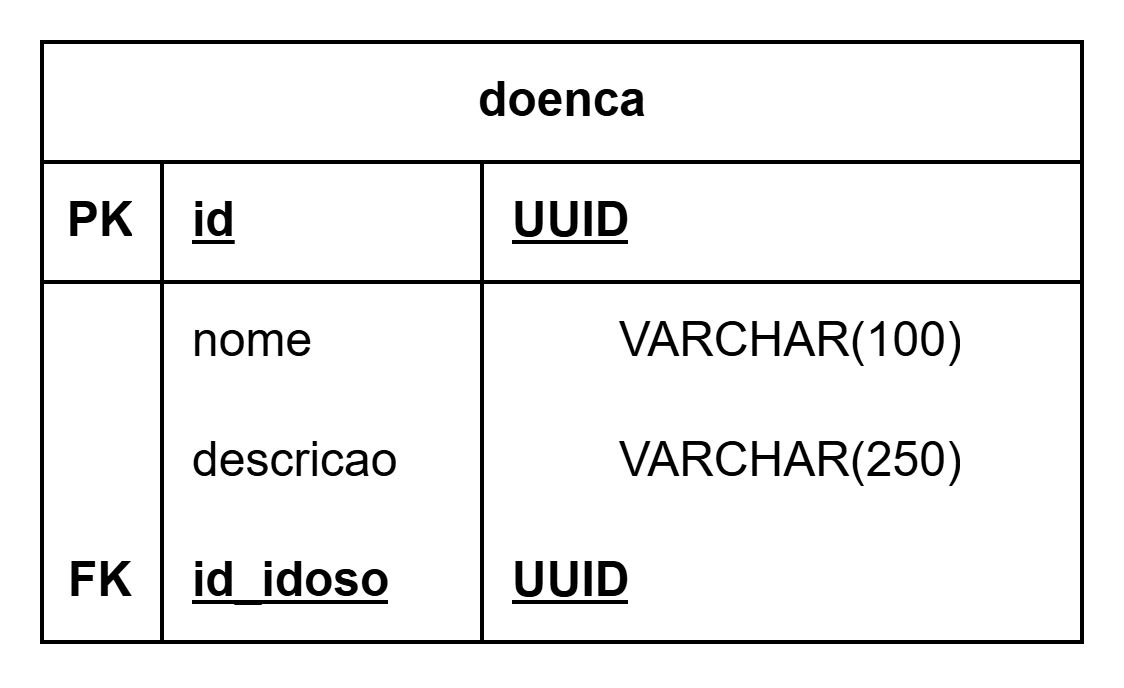
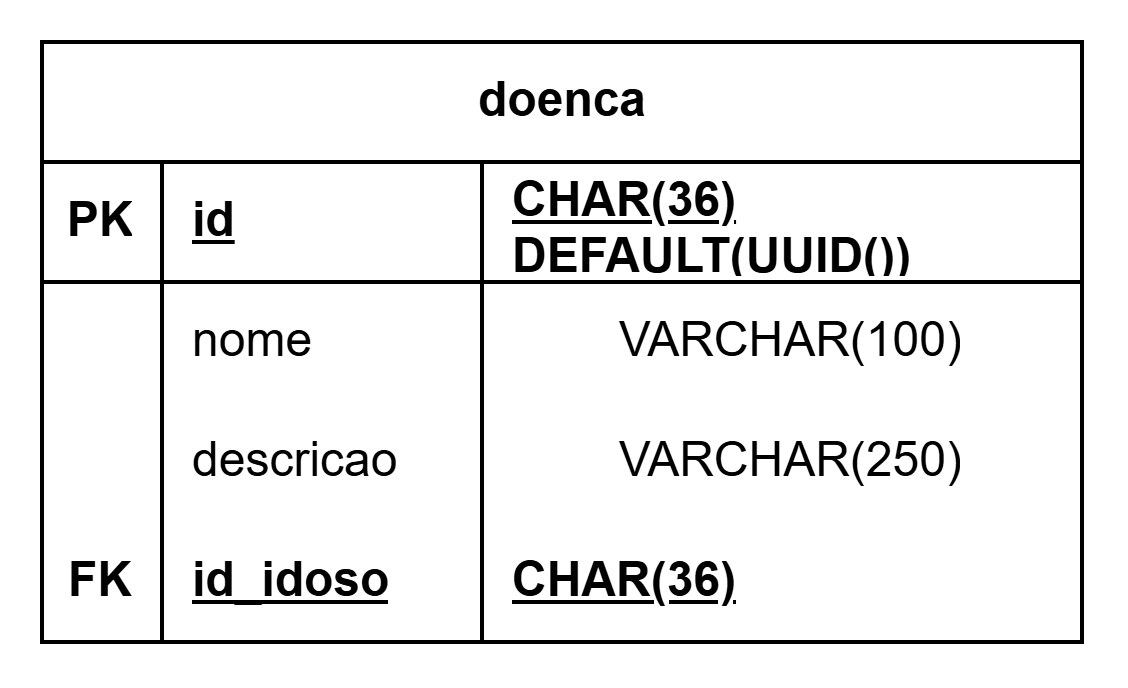
:books: docs: Arrumado as imagens com o diagrama DER e as tabelas dentro dela, pois foi atualizado o tipo da PK e da FK deixando mais completo (de UIID para CHAR(36) DEFAULT(UUID())

diff --git a/back-end/docs/database.md b/back-end/docs/database.md
@@ -30,31 +30,31 @@ A estrutura foi desenhada para suportar perfis distintos (Idosos, Cuidadores, Ad
 ## 👤 Entidades
 
 * **`usuario`**: Tabela central contendo as informações de um usuário geral. Se relaciona com as entidades Idoso (um para um), Cuidador (um para um) e Endereco (um para muitos);
-![Tabela de usuário geral](usuario.png)
+![Tabela de usuário](usuario.png)
 
 * **`enderecos`**: Armazena a localização dos usuários. Se relaciona com a entidade Usuario (muitos para um);
-![alt text](endereco.png)
+![Tabela de endereço](endereco.png)
 
 * **`idoso`**: Identifica usuários que se enquadram como idoso. Se relaciona com as entidades Usuario (um para um), registroSaude (um para muitos opicional), medicamento (um para muitos opicional), doenca (um para muitos opicional), consulta (um para muitos opicional), idoso_cuidador (um para muitos opicional);
-![Tabela de usuário idoso](idoso.png)
+![Tabela de usuários idoso](idoso.png)
 
 * **`cuidador`**: Identifica usuários que se enquadram como cuidador, responsável pela gestão de saúde dos usuários idosos vinculados à ele. Se relaciona com as entidades Usuario (um para um), idoso_cuidador (um para muitos opicional);
-![Tabela de usuário cuidador](cuidador.png)
+![Tabela de usuários cuidador](cuidador.png)
 
-* **`idoso_cuidador`**: Tabela associativa que vincula um idoso a um cuidador e para isso precisa obrigatoriamente de um usário de cada tipo. Se relaciona com Cuidador (muitos opicional para um), Idoso (muitos opicional para um);
-![Tabela de vínculo de idoso e cuidador](idoso_cuidador.png)
+* **`idosoCuidador`**: Tabela associativa que vincula um idoso a um cuidador e para isso precisa obrigatoriamente de um usário de cada tipo. Se relaciona com Cuidador (muitos opicional para um), Idoso (muitos opicional para um);
+![Tabela de vínculo idoso e cuidador](idosoCuidador.png)
 
 * **`registroSaude`**: Armazena os dados da saúde do idoso, esses sendo `pressao_arterial`, `glicemia`, `peso`, além do vínculo com o `id_idoso`. Se relaciona com Idoso (muitos opicional para um);
-![Tabela de informações de saúde](registroSaude.png)
+![Tabela de registros de saúde](registroSaude.png)
 
 * **`medicamentos`**: Registra os medicamentos que o idoso consome, inclui `nome`, `dosagem`, `horario`, `frequencia`, `observacoes`, além do vínculo com o `id_idoso`. Se relaciona com Idoso (muitos opicional para um);
-![Tabela de medicamentos](medicamento.png)
+![Tabela de medicamento](medicamentos.png)
 
 * **`doenca`**: Registra as doenças que o idoso possui, contendo `nome`, `descricao`, além do vínculo com `id_idoso`. Se relaciona com Idoso (muitos opicional para um);
-![Tabela de doencas](doenca.png)
+![Tabela de doenças](doenca.png)
 
 * **`consulta`**: Registra as informações de uma consulta médica que o idoso compareceu ou comparecerá, contendo `nome_medico`, `horario`, `local_consulta`, alpem do vínculo com `id_idoso`. Se relaciona com Idoso (muitos opicional para um);
-![Tabela que registra de consultas](consulta.png)
+![Tabela de consulta](consulta.png)
 
 * **`receitaMedica`**: Armazena as informações que foram passadas em uma consulta, contendo `descricao` e `data_emissao`. Se relaciona com Consulta (um para um);
 ![Tabela de receita médica](receitaMedica.png)
